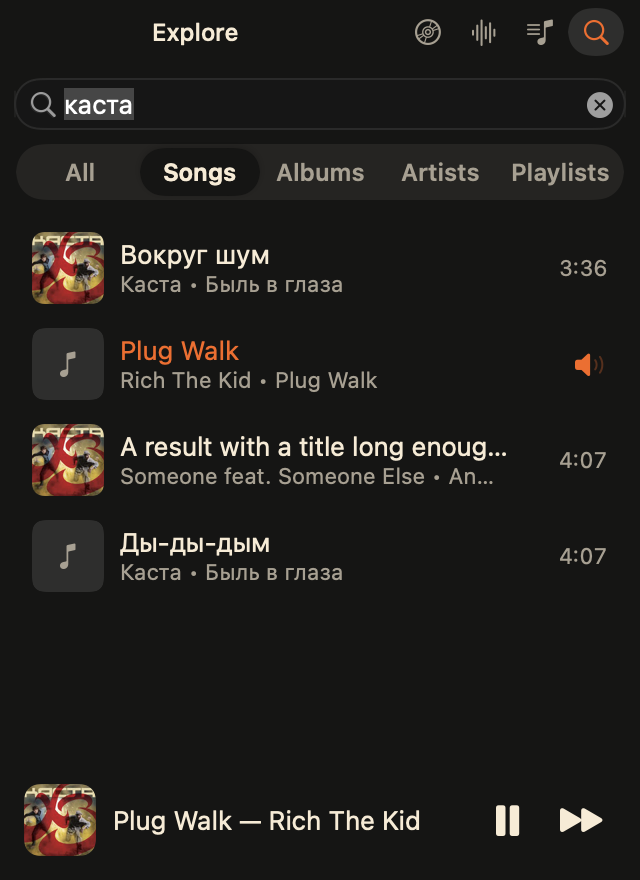
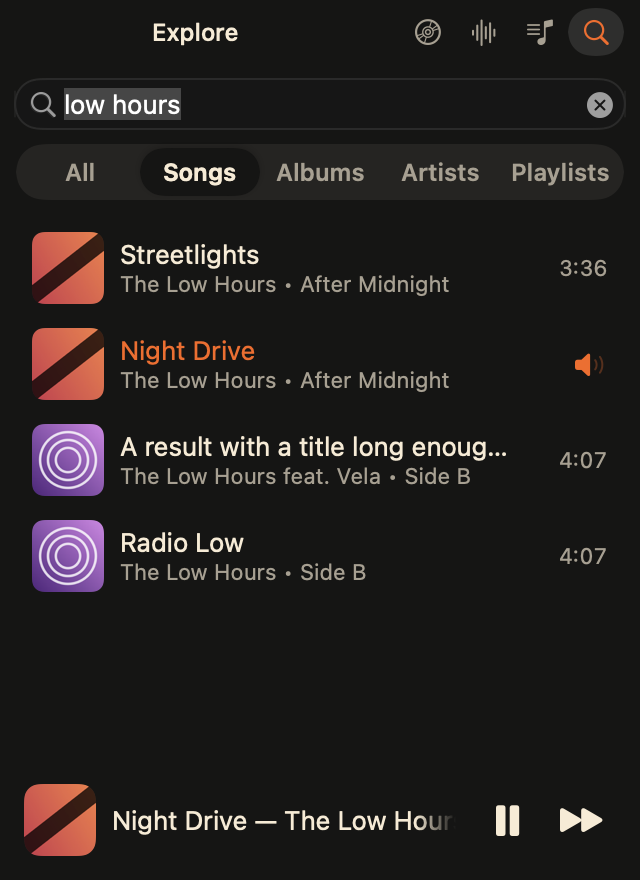
Snapshots: one made-up band with drawn covers, the same on every page
Night Drive by The Low Hours, from After Midnight, plays everywhere; the
other tracks, albums and artists are made up too, each with its own cover
drawn at render time. No real tracks, no YouTube thumbnails, nothing
downloaded. The README's screenshots are rendered again.

Changed region(s): [[0.0312, 0.2455, 0.75, 0.675], [0.0312, 0.8898, 0.7188, 0.9818], [0.0938, 0.092, 0.2812, 0.1534]]

diff --git a/Sources/BSide/Design/Snapshots.swift b/Sources/BSide/Design/Snapshots.swift
@@ -9,51 +9,54 @@ import WidgetKit
 /// bar, same views, only the player is a fixture.
 @MainActor
 enum Snapshots {
-    private static let artwork = URL(string: "https://i.ytimg.com/vi/UzIm_ZSmGYQ/hqdefault.jpg")
-    private static let track = PlayerState(
-        title: "Plug Walk", artist: "Rich The Kid", artworkURL: artwork, videoID: "x",
-        position: 4, duration: 175, isPlaying: true, isAd: false, queueIndex: 3, queueCount: 50, queueHasMore: true)
+    /// One made-up band and its neighbours (SnapshotCovers): Night Drive by
+    /// The Low Hours, from After Midnight, plays on every page.
+    private static var artwork: URL? { SnapshotCovers.afterMidnight }
+    private static var track: PlayerState { PlayerState(
+        title: "Night Drive", artist: "The Low Hours", artworkURL: artwork, videoID: "x",
+        position: 4, duration: 175, isPlaying: true, isAd: false, queueIndex: 3, queueCount: 50, queueHasMore: true) }
 
     private static let moods = [
         Mood.liked,
         Mood(id: "focus", name: "Focus", source: .playlist(id: "1", shuffled: false)),
         Mood(id: "night", name: "Night drive with a long name", source: .playlist(id: "2", shuffled: true)),
-        Mood(id: "radio", name: "Like Plug Walk", source: .radio(videoID: "x")),
+        Mood(id: "radio", name: "Like Night Drive", source: .radio(videoID: "x")),
     ]
 
     /// A playlist's tracks, the second one being the one that plays.
     private static func tracks(current: String) -> [Track] {
-        let names = [("Sicko Mode", "Travis Scott"), ("Plug Walk", "Rich The Kid"),
-                     ("A title long enough to be cut at the end of the row", "Someone feat. Someone Else"),
-                     ("Goosebumps", "Travis Scott"), ("", ""), ("Money Longer", "Lil Uzi Vert")]
+        let names: [(String, String, URL?)] = [
+            ("Slow Lights", "Marigold", SnapshotCovers.marigold), ("Night Drive", "The Low Hours", artwork),
+            ("A title long enough to be cut at the end of the row", "Vela feat. June Avenue", SnapshotCovers.vela),
+            ("Paper Moons", "Vela", nil), ("", "", nil), ("Overpass", "June Avenue", SnapshotCovers.juneAvenue)]
         return names.enumerated().map { index, name in
             Track(index: index, videoID: index == 1 ? current : "t\(index)", title: name.0, artist: name.1,
-                  artworkURL: index % 2 == 0 ? artwork : nil, length: "\(2 + index % 3):\(10 + index * 7)")
+                  artworkURL: name.2, length: "\(2 + index % 3):\(10 + index * 7)")
         }
     }
 
     /// Made-up timed lyrics; the track in the fixture is 18 s in, on line 4.
     private static let lyrics = Lyrics(
         videoID: "x", text: "", source: "Source: Musixmatch",
-        lines: ["Placeholder words for the first line", "A second line that runs long enough to wrap",
-                "", "The line being sung right now", "What comes next", "And after that",
-                "A line further down", "The last line"]
+        lines: ["Streetlights counting down the road", "Radio low, the windows open all the way",
+                "", "Where we go when the city sleeps", "Hold the wheel and hold the night",
+                "Every song's the one we keep", "Turn it up, the road is ours", "Side B, track one, all the way home"]
             .enumerated().map { LyricLine(start: Double($0.offset * 5 + 3), text: $0.element) })
 
     /// Name, page, and the situation to show.
     private static var cases: [(String, Page, PlayerController)] {
         var paused = track; paused.isPlaying = false; paused.like = "LIKE" // it plays from Liked Music
         var long = track
-        long.title = "Everything In Its Right Place (Live at Glastonbury 2003, Remastered)"
-        long.artist = "Radiohead feat. Someone With A Very Long Name Indeed"
+        long.title = "Night Drive (Live at the Old Theatre, 2003, Remastered and Extended)"
+        long.artist = "The Low Hours feat. Someone With A Very Long Name Indeed"
         var noArt = track; noArt.artworkURL = nil
         var ad = track; ad.isAd = true; ad.title = ""; ad.adLeft = 12; ad.adLeftAt = .distantFuture // stands still
         var adRun = ad; adRun.adIndex = 1; adRun.adCount = 2
         var loading = PlayerState(); loading.videoID = "x"
         let lists = [
-            Playlist(id: "1", title: "Focus", subtitle: "Emil • 12 tracks", artworkURL: artwork),
+            Playlist(id: "1", title: "Focus", subtitle: "Emil • 12 tracks", artworkURL: SnapshotCovers.focus),
             Playlist(id: "2", title: "Night drive with an unreasonably long playlist name", subtitle: "Someone Else • 87 tracks", artworkURL: nil),
-            Playlist(id: "3", title: "Workout", subtitle: "Emil • 34 tracks", artworkURL: artwork),
+            Playlist(id: "3", title: "Workout", subtitle: "Emil • 34 tracks", artworkURL: SnapshotCovers.workout),
         ]
         return [
             ("nowplaying-playing", .nowPlaying, .fixture(state: track, source: .mood(Mood.liked.id), playlists: lists)),
@@ -79,7 +82,7 @@ enum Snapshots {
             ("vibe-playing", .vibe, .fixture(state: track, source: .mood("focus"), playlists: lists, moods: moods)),
             ("vibe-one", .vibe, .fixture(playlists: lists)),
             ("vibe-longstrip", .vibe, .fixture(state: long, source: .mood("focus"), playlists: lists, moods: moods)),
-            ("vibe-radio", .vibe, .fixture(state: track, source: .radio("Sicko Mode"), playlists: lists, moods: moods)),
+            ("vibe-radio", .vibe, .fixture(state: track, source: .radio("Night Drive"), playlists: lists, moods: moods)),
             ("vibe-none", .vibe, .fixture(playlists: lists, moods: [])),
             ("vibe-many", .vibe, .fixture(state: track, source: .mood("m3"), playlists: lists, moods: moods + (1...5).map {
                 Mood(id: "m\($0)", name: "Mood \($0)", source: .playlist(id: "1", shuffled: $0 % 2 == 0))
@@ -94,7 +97,8 @@ enum Snapshots {
             ("playlists-failed", .playlists, .fixture(playlistsState: .failed("The list of playlists could not be loaded."))),
             ("playlists-none", .playlists, .fixture(playlists: [])),
             ("playlists-many", .playlists, .fixture(state: track, source: .playlist("7"), playlists: (1...20).map {
-                Playlist(id: String($0), title: "Playlist \($0)", subtitle: "\($0 * 3) tracks", artworkURL: $0 % 2 == 0 ? artwork : nil)
+                Playlist(id: String($0), title: "Playlist \($0)", subtitle: "\($0 * 3) tracks",
+                         artworkURL: [SnapshotCovers.focus, nil, SnapshotCovers.workout, SnapshotCovers.sideB][$0 % 4])
             })),
         ]
     }
@@ -105,8 +109,8 @@ enum Snapshots {
         var playing = WidgetState()
         playing.hasTrack = true
         playing.isPlaying = true
-        playing.title = "Plug Walk"
-        playing.artist = "Rich The Kid"
+        playing.title = "Night Drive"
+        playing.artist = "The Low Hours"
         playing.source = "Liked Music"
         playing.sourceSymbol = "heart.fill"
         if let artwork, let image = await ArtworkLoader.image(for: artwork) {
@@ -144,7 +148,7 @@ enum Snapshots {
     private static func renderSettings(into folder: URL) async {
         // -snapshotOnly filters these too, as it does the pages.
         if let only = UserDefaults.standard.string(forKey: Keys.snapshotOnly), !"settings".contains(only), !only.contains("settings") { return }
-        let player = PlayerController.fixture(state: track, account: .signedIn(name: "Emil", handle: "@emil", photoURL: artwork),
+        let player = PlayerController.fixture(state: track, account: .signedIn(name: "Emil", handle: "@emil", photoURL: SnapshotCovers.account),
                                               source: .mood(Mood.liked.id))
         player.processesForSnapshot = [
             ProcessInfoRow(pid: 501, name: "B-Side", footprintBytes: 41 << 20),
@@ -193,10 +197,10 @@ enum Snapshots {
     private static func renderNewVibe(into folder: URL) async {
         let jazz = VibeSpec(
             name: "Rainy Sunday", colour: 2, tags: ["slow jazz", "rainy", "instrumental"],
-            artists: ["Bill Evans", "Chet Baker", "Kenny Dorham", "Paul Desmond"], vocals: .without, mix: .both,
-            anchors: [Track(index: 0, videoID: "a", title: "Peace Piece", artist: "Bill Evans", artworkURL: artwork),
-                      Track(index: 1, videoID: "b", title: "Alone Together", artist: "Chet Baker", artworkURL: nil),
-                      Track(index: 2, videoID: "c", title: "Lotus Blossom", artist: "Kenny Dorham", artworkURL: artwork)],
+            artists: ["Marigold", "Vela", "Northern Glass", "June Avenue"], vocals: .without, mix: .both,
+            anchors: [Track(index: 0, videoID: "a", title: "Rain on Glass", artist: "Marigold", artworkURL: SnapshotCovers.marigold),
+                      Track(index: 1, videoID: "b", title: "Slow Hours", artist: "Vela", artworkURL: nil),
+                      Track(index: 2, videoID: "c", title: "Blue Window", artist: "Northern Glass", artworkURL: SnapshotCovers.vela)],
             matchedMoods: nil)
         var plain = jazz
         plain.name = "Rainy Sunday"; plain.colour = 3; plain.tags = []; plain.artists = []
@@ -352,56 +356,58 @@ enum Snapshots {
         plain.text = "Plain lyrics, without timings,\nshown as text you can select.\n\nA second verse\nof made-up words."
         await renderPage(.nowPlaying, player: .fixture(state: singing, source: .mood(Mood.liked.id), lyrics: plain),
                          name: "nowplaying-lyrics-plain", appearance: .aqua, into: folder, showsLyrics: true)
-        let found = [("Вокруг шум", "Каста • Быль в глаза", "3:36"), ("Plug Walk", "Rich The Kid • Plug Walk", "2:55"),
-                     ("A result with a title long enough to be cut", "Someone feat. Someone Else • An album", "4:07"),
-                     ("Ды-ды-дым", "Каста • Быль в глаза", "4:07")]
-            .enumerated().map { index, item in
+        let rows: [(String, String, String, URL?)] = [
+            ("Streetlights", "The Low Hours • After Midnight", "3:36", artwork),
+            ("Night Drive", "The Low Hours • After Midnight", "2:55", artwork),
+            ("A result with a title long enough to be cut", "The Low Hours feat. Vela • Side B", "4:07", SnapshotCovers.sideB),
+            ("Radio Low", "The Low Hours • Side B", "4:07", SnapshotCovers.sideB)]
+        let found = rows.enumerated().map { index, item in
                 MusicItem(id: index, videoID: index == 1 ? track.videoID : "s\(index)", title: item.0,
-                          subtitle: item.1, detail: item.2, artworkURL: index % 2 == 0 ? artwork : nil)
+                          subtitle: item.1, detail: item.2, artworkURL: item.3)
             }
         for (suffix, appearance) in [("light", NSAppearance.Name.aqua), ("dark", .darkAqua)] {
             await renderPage(.explore, player: .fixture(state: track, source: .other), name: "explore-empty-\(suffix)",
                              appearance: appearance, into: folder)
-            await renderPage(.explore, player: .fixture(state: track, source: .other, search: ("каста", found),
+            await renderPage(.explore, player: .fixture(state: track, source: .other, search: ("low hours", found),
                                                         searchState: .loaded),
                              name: "explore-results-\(suffix)", appearance: appearance, into: folder)
         }
         let albums = (1...4).map {
             MusicItem(id: $0, kind: .album, playlistID: "OLAK\($0)", browseID: "MPREb\($0)",
-                      title: $0 == 1 ? "Быль в глаза" : "An album with a longer name \($0)",
-                      subtitle: "\(2000 + $0 * 4)", artworkURL: $0 % 2 == 1 ? artwork : nil)
+                      title: ["After Midnight", "Side B", "An album with a longer name than most", "Early Hours"][$0 - 1],
+                      subtitle: "\(2008 + $0 * 4)", artworkURL: [artwork, SnapshotCovers.sideB, nil, SnapshotCovers.vela][$0 - 1])
         }
         let related = (1...4).map {
-            MusicItem(id: $0, kind: .artist, browseID: "UC\($0)", title: ["25/17", "Баста", "Someone", "Other"][$0 - 1])
+            MusicItem(id: $0, kind: .artist, browseID: "UC\($0)", title: ["Marigold", "Vela", "June Avenue", "Northern Glass"][$0 - 1])
         }
-        let artistPage = ArtistPage(id: "UCkasta", name: "Каста", artworkURL: artwork, songsPlaylistID: "OLAKall",
+        let artistPage = ArtistPage(id: "UClowhours", name: "The Low Hours", artworkURL: SnapshotCovers.lowHours, songsPlaylistID: "OLAKall",
                                     songs: Array(found.prefix(3)),
                                     shelves: [.init(id: 0, title: "Albums", items: albums),
                                               .init(id: 1, title: "Fans might also like", items: related)])
-        let albumTracks = ["В супермаркете", "Встреча", "Нормально всё", "Вокруг шум", "Ды-ды-дым"].enumerated().map {
+        let albumTracks = ["Intro", "Streetlights", "Radio Low", "Night Drive", "Side B"].enumerated().map {
             MusicItem(id: $0.offset, videoID: $0.offset == 3 ? track.videoID : "a\($0.offset)", title: $0.element,
-                      subtitle: "Каста", detail: "3:\(10 + $0.offset * 7)", artistID: "UCkasta")
+                      subtitle: "The Low Hours", detail: "3:\(10 + $0.offset * 7)", artistID: "UClowhours")
         }
-        let album = CollectionPage(id: "MPREbalbum", isAlbum: true, title: "Быль в глаза", subtitle: "Album • 2008",
-                                   artist: "Каста", artistID: "UCkasta", artworkURL: artwork, playlistID: "OLAKalbum",
+        let album = CollectionPage(id: "MPREbalbum", isAlbum: true, title: "After Midnight", subtitle: "Album • 2012",
+                                   artist: "The Low Hours", artistID: "UClowhours", artworkURL: artwork, playlistID: "OLAKalbum",
                                    tracks: albumTracks)
         for (suffix, appearance) in [("light", NSAppearance.Name.aqua), ("dark", .darkAqua)] {
             await renderPage(.explore, player: .fixture(state: track, source: .other, artist: artistPage),
                              name: "explore-artist-\(suffix)", appearance: appearance, into: folder,
-                             explorePath: [.artist(id: "UCkasta", name: "Каста")])
+                             explorePath: [.artist(id: "UClowhours", name: "The Low Hours")])
             await renderPage(.explore, player: .fixture(state: track, source: .other, collection: album),
                              name: "explore-album-\(suffix)", appearance: appearance, into: folder,
-                             explorePath: [.collection(id: "MPREbalbum", title: "Быль в глаза")])
+                             explorePath: [.collection(id: "MPREbalbum", title: "After Midnight")])
         }
         var shelvesOnly = artistPage; shelvesOnly.songs = []
         await renderPage(.explore, player: .fixture(state: track, source: .other, artist: shelvesOnly),
                          name: "explore-artist-rows", appearance: .aqua, into: folder,
-                         explorePath: [.artist(id: "UCkasta", name: "Каста")])
-        await renderPage(.explore, player: .fixture(search: ("каста", []), searchState: .loading),
+                         explorePath: [.artist(id: "UClowhours", name: "The Low Hours")])
+        await renderPage(.explore, player: .fixture(search: ("low hours", []), searchState: .loading),
                          name: "explore-loading", appearance: .aqua, into: folder)
         await renderPage(.explore, player: .fixture(search: ("zzqx", []), searchState: .loaded),
                          name: "explore-nothing", appearance: .aqua, into: folder)
-        await renderPage(.explore, player: .fixture(state: track, source: .other, search: ("каста", found),
+        await renderPage(.explore, player: .fixture(state: track, source: .other, search: ("low hours", found),
                                                     searchState: .loaded),
                          name: "explore-reduce-transparency", appearance: .aqua, into: folder, reduceTransparency: true)
         // The window dragged wider and taller: the pages fill it.
@@ -412,7 +418,7 @@ enum Snapshots {
                          name: "wide-queue", appearance: .darkAqua, into: folder, showsQueue: true, size: wide)
         await renderPage(.vibe, player: .fixture(state: track, source: .mood("focus"), moods: moods),
                          name: "wide-vibe", appearance: .aqua, into: folder, size: wide)
-        let largeLists = [Playlist(id: "1", title: "Focus", subtitle: "12 tracks", artworkURL: artwork),
+        let largeLists = [Playlist(id: "1", title: "Focus", subtitle: "12 tracks", artworkURL: SnapshotCovers.focus),
                           Playlist(id: "2", title: "Night drive", subtitle: "87 tracks")]
         await renderPage(.playlists, player: .fixture(state: track, source: .playlist("1"), playlists: largeLists),
                          name: "wide-playlists", appearance: .darkAqua, into: folder, size: wide)

diff --git a/Sources/BSide/Design/SnapshotCovers.swift b/Sources/BSide/Design/SnapshotCovers.swift
@@ -1,0 +1,70 @@
+import SwiftUI
+
+/// Made-up covers for the snapshots: a Vibe colour's gradient with one
+/// shape on it, drawn once per run into a temporary folder and handed out
+/// as file URLs, so the artwork goes through the same loaders as a real
+/// one. One cover per made-up album, so a track shows the same picture on
+/// every page; nothing is downloaded.
+@MainActor
+enum SnapshotCovers {
+    enum Shape: String { case sun, band, rings }
+
+    /// "After Midnight" by The Low Hours: Night Drive's album.
+    static var afterMidnight: URL? { cover("after-midnight", swatch: 0, shape: .band) }
+    static var sideB: URL? { cover("side-b", swatch: 7, shape: .rings) }
+    static var marigold: URL? { cover("marigold", swatch: 6, shape: .sun) }
+    static var vela: URL? { cover("vela", swatch: 3, shape: .rings) }
+    static var juneAvenue: URL? { cover("june-avenue", swatch: 4, shape: .band) }
+    static var focus: URL? { cover("focus", swatch: 1, shape: .rings) }
+    static var workout: URL? { cover("workout", swatch: 5, shape: .sun) }
+    /// The Low Hours' photo, and the account's.
+    static var lowHours: URL? { cover("low-hours", swatch: 2, shape: .sun) }
+    static var account: URL? { cover("account", swatch: 7, shape: .sun) }
+
+    private static var made: [String: URL] = [:]
+    private static let side: CGFloat = 600
+
+    private static func cover(_ name: String, swatch: Int, shape: Shape) -> URL? {
+        if let url = made[name] { return url }
+        let folder = FileManager.default.temporaryDirectory.appending(path: "b-side-snapshot-covers")
+        try? FileManager.default.createDirectory(at: folder, withIntermediateDirectories: true)
+        let url = folder.appending(path: "\(name).png")
+        let renderer = ImageRenderer(content: Art(swatch: VibePalette.swatches[swatch], shape: shape).frame(width: side, height: side))
+        guard let image = renderer.cgImage,
+              let data = NSBitmapImageRep(cgImage: image).representation(using: .png, properties: [:]),
+              (try? data.write(to: url)) != nil else { return nil }
+        made[name] = url
+        return url
+    }
+
+    private struct Art: View {
+        let swatch: VibePalette.Swatch
+        let shape: Shape
+
+        var body: some View {
+            ZStack {
+                LinearGradient(colors: [swatch.light, swatch.deep], startPoint: .topTrailing, endPoint: .bottomLeading)
+                switch shape {
+                case .sun:
+                    Circle()
+                        .fill(.white.opacity(0.85))
+                        .frame(width: side * 0.42, height: side * 0.42)
+                        .offset(x: side * 0.16, y: -side * 0.14)
+                case .band:
+                    Rectangle()
+                        .fill(.black.opacity(0.75))
+                        .frame(width: side * 1.6, height: side * 0.24)
+                        .rotationEffect(.degrees(-38))
+                case .rings:
+                    ForEach([0.78, 0.56, 0.34], id: \.self) { ratio in
+                        Circle()
+                            .stroke(.white.opacity(0.8), lineWidth: side * 0.035)
+                            .frame(width: side * ratio, height: side * ratio)
+                    }
+                }
+            }
+            .frame(width: side, height: side)
+            .clipped()
+        }
+    }
+}

diff --git a/Sources/BSide/Design/Thumbnails.swift b/Sources/BSide/Design/Thumbnails.swift
@@ -57,8 +57,8 @@ enum Thumbnails {
             if attempt > 0 { try? await Task.sleep(for: .seconds(Tuning.artworkRetryDelay * Double(attempt))) }
             do {
                 let (data, response) = try await Net.session.data(from: url)
-                let status = (response as? HTTPURLResponse)?.statusCode ?? 0
-                if status == 200, let image = decode(data, pixels: pixels) { return image }
+                let status = (response as? HTTPURLResponse)?.statusCode ?? 0 // none for a file: the snapshots' covers
+                if status == 200 || url.isFileURL, let image = decode(data, pixels: pixels) { return image }
                 failure = "HTTP \(status), \(data.count) bytes"
             } catch {
                 failure = error.localizedDescription

diff --git a/Sources/BSide/Design/ArtworkLoader.swift b/Sources/BSide/Design/ArtworkLoader.swift
@@ -144,8 +144,8 @@ enum ArtworkLoader {
             if attempt > 0 { try? await Task.sleep(for: .seconds(Tuning.artworkRetryDelay)) }
             do {
                 let (data, response) = try await Net.session.data(from: url)
-                let status = (response as? HTTPURLResponse)?.statusCode ?? 0
-                if status == 200, let image = decode(data) {
+                let status = (response as? HTTPURLResponse)?.statusCode ?? 0 // none for a file: the snapshots' covers
+                if status == 200 || url.isFileURL, let image = decode(data) {
                     return image
                 }
                 failure = "HTTP \(status), \(data.count) bytes"
